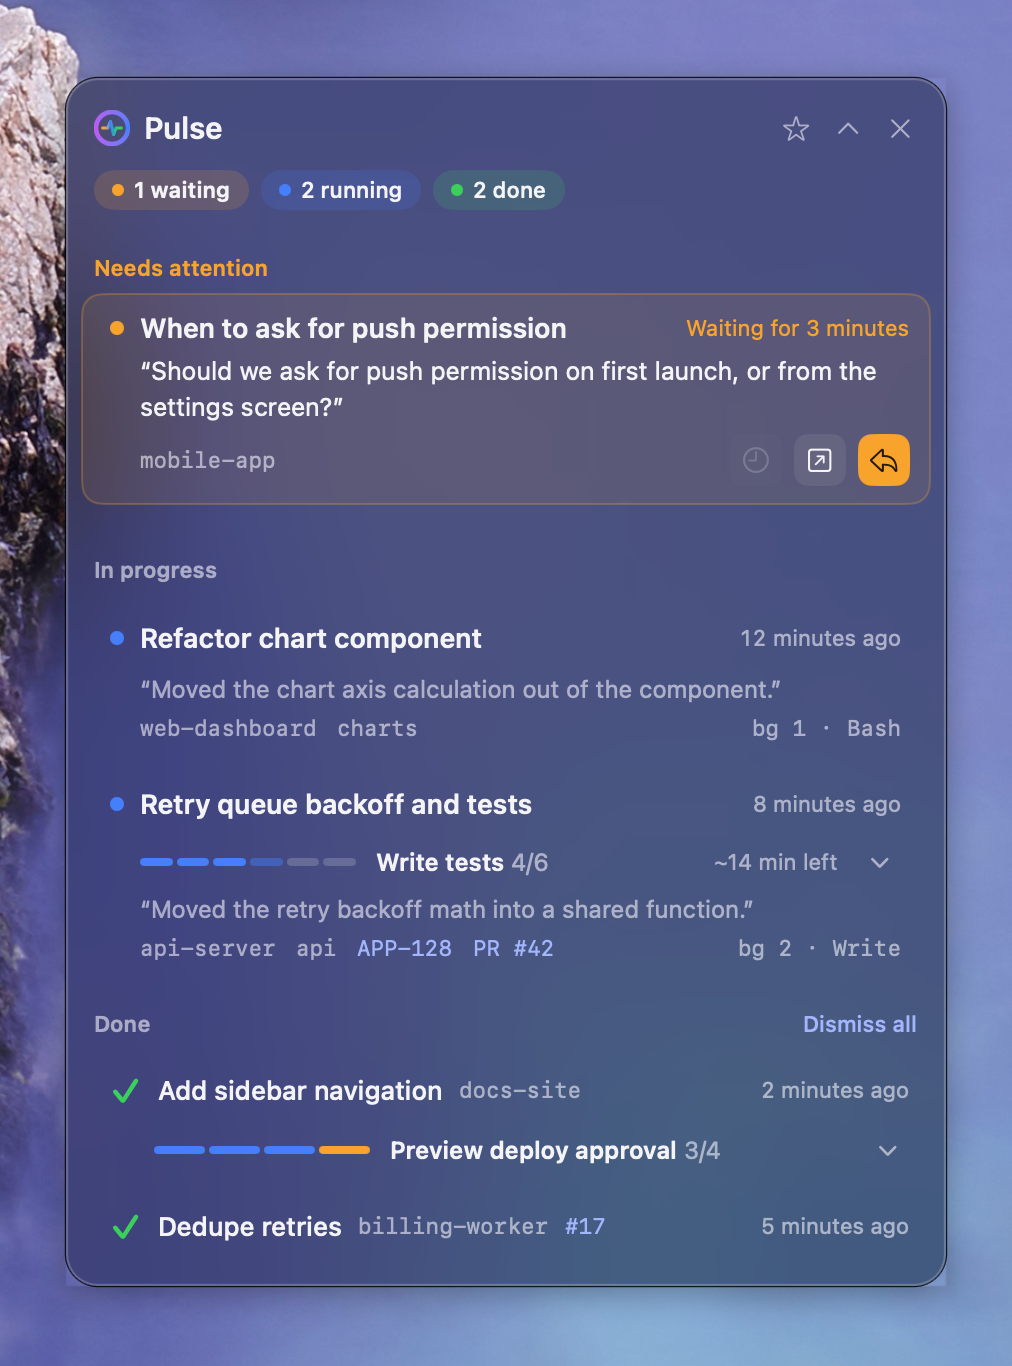
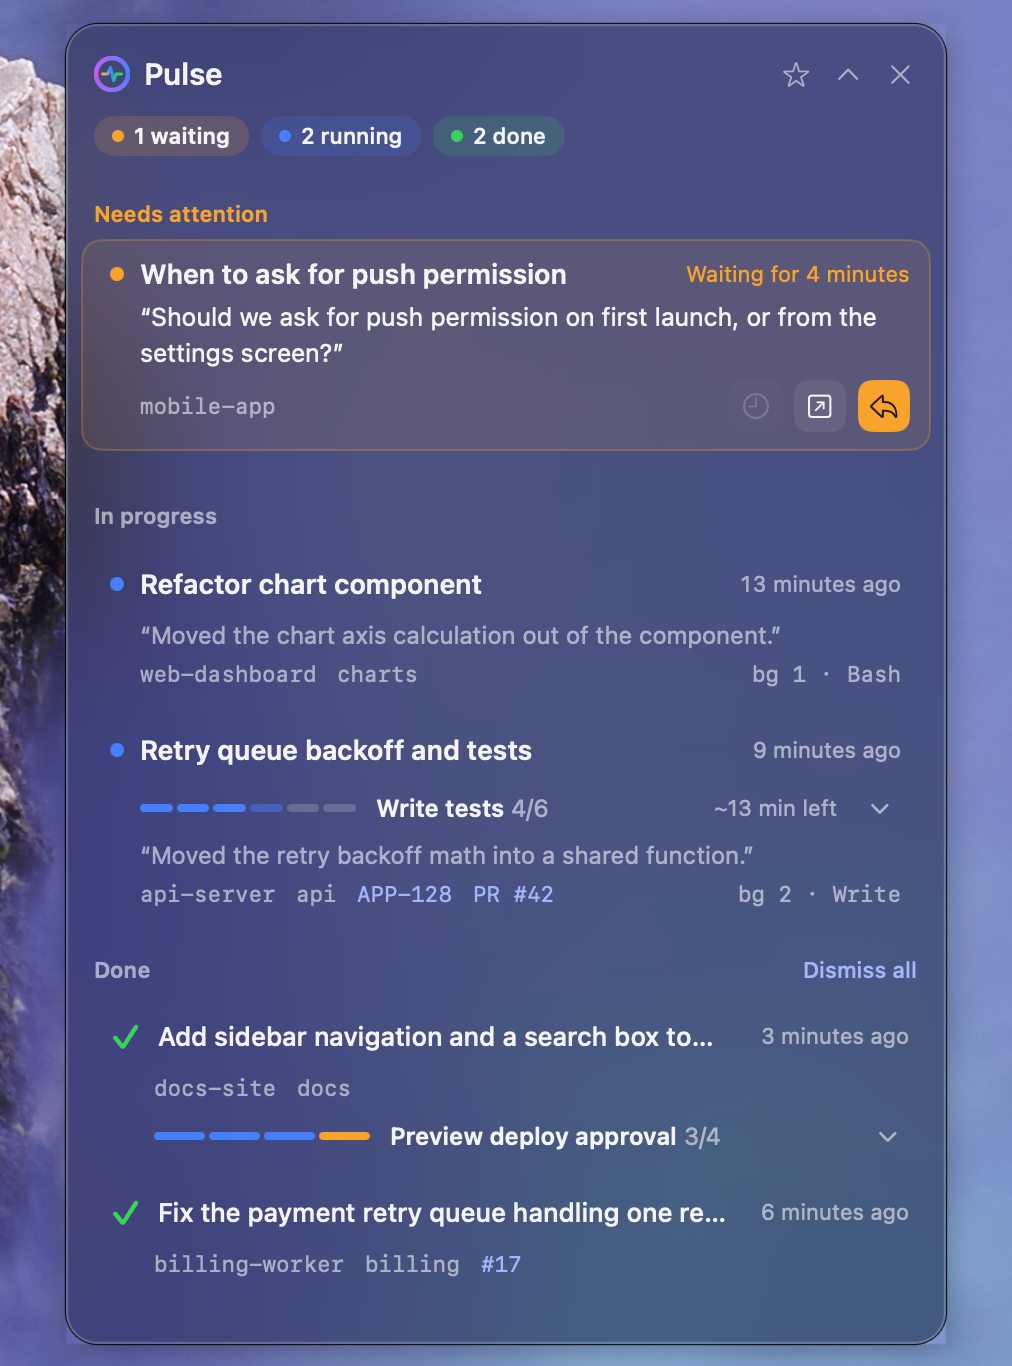
docs: 완료 행 메타 줄 설명과 팝오버·패널 그림 갱신
- README 두 판의 팝오버 완료 항목에 제목 아래 식별 정보 줄 설명 추가
- popover·deadhd-steps·panel 그림과 영어판 재촬영

diff --git a/README.md b/README.md
@@ -55,7 +55,7 @@ brew services start lcalmsky/pulse/pulse
 
 - **확인 필요** 기다린 시간과 마지막 답을 보여 줍니다. 버튼은 10분 더 기다리기, 열기, 답하기입니다
 - **진행 중** 단계 막대와 남은 시간, 지금 하는 일을 보여 줍니다. 마우스를 올리면 진행 페이지와 Orca 버튼이 나옵니다
-- **완료** 최근 5개만 보이고 나머지는 `그 밖에 N개` 로 접힙니다. deadhd 체크리스트를 다 끝내지 못한 채 턴이 끝난 세션은 완료 행에도 단계 줄이 나오고, 눌러서 단계를 펼칠 수 있습니다
+- **완료** 최근 5개만 보이고 나머지는 `그 밖에 N개` 로 접힙니다. 제목 아래 줄에 위치와 세션 이름, 티켓 키, PR 이 나와서 제목이 길어도 어느 세션인지 알 수 있습니다. deadhd 체크리스트를 다 끝내지 못한 채 턴이 끝난 세션은 완료 행에도 단계 줄이 나오고, 눌러서 단계를 펼칠 수 있습니다
 - **머리글과 바닥글** 위에는 세 그룹의 수와 GitHub 별 버튼·접기 버튼, 아래에는 갱신 시각과 플로팅 패널·설정·종료 버튼이 있습니다
 - **검색** `⌘`·`⌃` 없이 글자를 치면 머리글 아래에 검색 줄이 열립니다. 제목, 워크트리·브랜치, 작업 디렉터리 이름, 키, 티켓 키, PR 라벨에서 찾고, 공백으로 나눈 낱말이 모두 들어 있어야 합니다. 화면에서 접힌 완료 항목까지 찾습니다
 

diff --git a/README.en.md b/README.en.md
@@ -55,7 +55,7 @@ The list is ordered **attention → working → done**.
 
 - **Attention** shows how long it has been waiting and the last answer. The buttons are wait 10 more minutes, open, and reply
 - **Working** shows a step bar, the remaining time, and what it is doing now. On hover, the progress page and go to Orca buttons appear
-- **Done** shows the latest five only and folds the rest into `N more`. A session whose turn ended before its deadhd checklist was finished keeps a step line on its done row, and you can click it to expand the steps
+- **Done** shows the latest five only and folds the rest into `N more`. A line under the title shows the location, session name, ticket key, and PR, so you can tell which session it is even when the title is long. A session whose turn ended before its deadhd checklist was finished keeps a step line on its done row, and you can click it to expand the steps
 - **Header and footer** the header has the three group counts and the GitHub star and collapse buttons, and the footer has the refresh time and the floating panel, settings, and quit buttons
 - **Search** typing without `⌘` or `⌃` opens a search line below the header. It searches titles, worktrees and branches, working directory names, keys, ticket keys, and PR labels, and every space-separated word must be present. It also finds done items folded out of view
 
